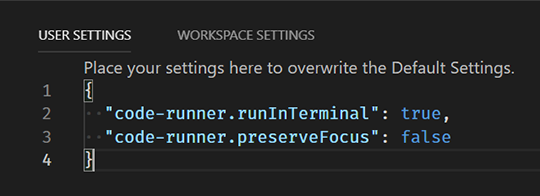
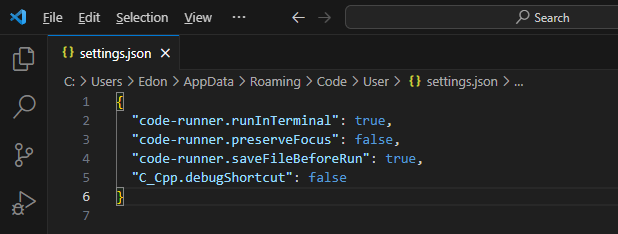
Update VS Code notes

diff --git a/lendet/gjuhe-programuese/vs-code.md b/lendet/gjuhe-programuese/vs-code.md
@@ -31,8 +31,6 @@ Në shiritin për kërkim e shkruajmë `C++`, dhe instalojmë `C/C++` si në pam
 
 ![](/lendet/gjuhe-programuese/vs-code/screen-3.png)
 
-Pas instalimit e shtypim butonin `Reload to Activate`.
-
 ---
 
 <!-- .slide: style="font-size:0.8em" -->
@@ -42,8 +40,6 @@ Pas instalimit e shtypim butonin `Reload to Activate`.
 Në shiritin për kërkim e shkruajmë `code runner`, dhe instalojmë `Code Runner` si në pamjen në vijim:
 
 ![](/lendet/gjuhe-programuese/vs-code/screen-4.png)
-
-Pas instalimit e shtypim butonin `Reload to Activate`.
 
 ---
 
@@ -55,19 +51,20 @@ Pas instalimit e shtypim butonin `Reload to Activate`.
     - `View > Command Palette`
     - `Ctrl+Shift+P`
     - `F1`
-2. E shkruajmë settings dhe zgjedhim opsionin `Preferences: Open Settings (JSON)`, si në pamjen e mëposhtme:
+2. E shkruajmë settings dhe zgjedhim opsionin `Preferences: Open User Settings (JSON)`, si në pamjen e mëposhtme:
 
 ![](/lendet/gjuhe-programuese/vs-code/screen-5.png)
 
 ---
 
-Në pamjen `USER SETTINGS` shkruajmë këtë konfigurim:
+Në settings e shkruajmë këtë konfigurim:
 
 ```json
 {
   "code-runner.runInTerminal": true,
   "code-runner.preserveFocus": false,
-  "code-runner.saveFileBeforeRun": true
+  "code-runner.saveFileBeforeRun": true,
+  "C_Cpp.debugShortcut": false
 }
 ```
 
@@ -85,10 +82,9 @@ Hapi tjetër është instalimi i kompajllerit MinGW.
 
 **Instalimi i MinGW në Windows**
 
-1. Vizitojmë faqen [mingw.org](http://www.mingw.org/) dhe shkojmë te [Downloads](https://osdn.net/projects/mingw/releases/)
-2. Klikojmë `mingw-get-setup.exe` si në pamjen vijuese.
-3. Hapim setup dhe ndjekim hapat e instalimit.
-4. Pas instalimit shtypim `Continue`.
+1. Vizitojmë faqen e [mingw](https://sourceforge.net/projects/mingw/) dhe e shtypim Download si në foton vijuese.
+2. Hapim setup që e shkarkuam dhe ndjekim hapat e instalimit.
+3. Pas instalimit shtypim `Continue`.
 
 ![](/lendet/gjuhe-programuese/vs-code/screen-7.png)
 

diff --git a/lendet/gjuhe-programuese/index.md b/lendet/gjuhe-programuese/index.md
@@ -7,22 +7,26 @@ suppresshooks: true
 
 # Bazat e Programimit
 
+## Njoftime
+
+Ju lutem të gjithë studentëve që kanë laptopë ta kenë të gatshëm ndonjë editor për të shkruajtur dhe ekzekutuar programe.
+Për instruksionet se si duhet të konfigurohet VS Code, [klikoni këtu](/lendet/gjuhe-programuese/vs-code).
+
 ## Orari
 
-**Kujdes:** Vini re se orari ka ndryshuar, dhe mund të ndryshojë përsëri deri sa të stabilizohen oraret zyrtare.
+**Kujdes:** Vini re se orari ka ndryshuar, dhe mund të ndryshojë përsëri deri sa të stabilizohen terminet nëpër kabinete.
 
-| Grupi    | Dita      | Ora         | Salla |
-| -------- | --------- | ----------- | ----- |
-| 2A", 2B" | E hënë    | 08:00-09:30 | 615   |
-| 1B', 1B" | E mërkurë | 11:00-12:30 | 615   |
+| Grupi        | Dita       | Ora             | Salla   |
+| ------------ | ---------- | --------------- | ------- |
+| 1B', 1B"     | E mërkurë  | 11:00-12:30     | 615     |
+| 2A", 2B"     | E enjte    | 15:00-16:30     | 615     |
+| ~~2A", 2B"~~ | ~~E hënë~~ | ~~08:00-09:30~~ | ~~615~~ |
 
 ---
 
 ## Materiali
 
 1. [Hyrje në C++](/lendet/gjuhe-programuese/java1)
-
----
 
 ## Artikuj
 
